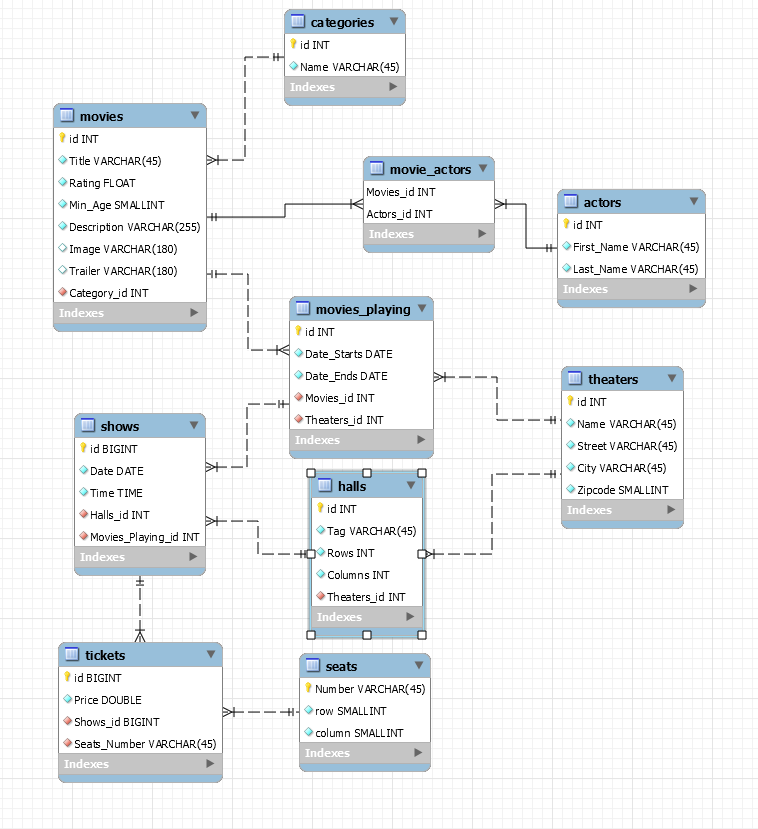
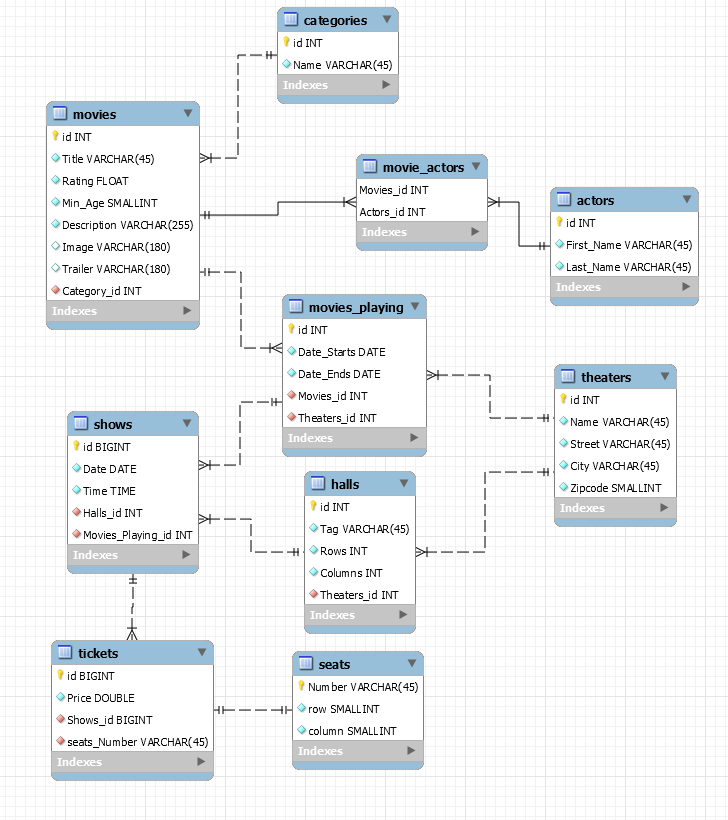
changes to enitites to support relationships

diff --git a/src/main/java/cinema/shows/entities/Show.java b/src/main/java/cinema/shows/entities/Show.java
@@ -5,6 +5,7 @@ import lombok.*;
 import javax.persistence.*;
 import java.sql.Date;
 import java.sql.Time;
+import java.util.List;
 import java.util.Objects;
 
 @AllArgsConstructor @NoArgsConstructor
@@ -27,25 +28,29 @@ public class Show {
     @JoinColumn(name = "Movies_Playing_id", referencedColumnName = "id", nullable = false)
     private MoviePlaying moviePlaying;
 
-    @Column(name = "Halls_id", nullable = false)
-    private int hallId;
+    @ManyToOne
+    @JoinColumn(name = "Halls_id", referencedColumnName = "id", nullable = false)
+    private Hall hall;
 
-    public Show(Date date, Time time, MoviePlaying moviePlaying, int hallId) {
+    @OneToMany(mappedBy = "show")
+    private List<Ticket> tickets;
+
+    public Show(Date date, Time time, MoviePlaying moviePlaying, Hall hallId) {
         this.date = date;
         this.time = time;
         this.moviePlaying = moviePlaying;
-        this.hallId = hallId;
+        this.hall = hallId;
     }
 
     @Override
     public boolean equals(Object o) {
         if (this == o) return true;
         if (!(o instanceof Show show)) return false;
-        return getHallId() == show.getHallId() && Objects.equals(getDate(), show.getDate()) && Objects.equals(getTime(), show.getTime());
+        return getHall() == show.getHall() && Objects.equals(getDate(), show.getDate()) && Objects.equals(getTime(), show.getTime());
     }
 
     @Override
     public int hashCode() {
-        return Objects.hash(getDate(), getTime(), getHallId());
+        return Objects.hash(getDate(), getTime(), getHall());
     }
 }

diff --git a/src/main/java/cinema/shows/entities/Ticket.java b/src/main/java/cinema/shows/entities/Ticket.java
@@ -1,0 +1,33 @@
+package cinema.shows.entities;
+
+import lombok.AllArgsConstructor;
+import lombok.Getter;
+import lombok.NoArgsConstructor;
+import lombok.Setter;
+
+import javax.persistence.*;
+
+@AllArgsConstructor
+@NoArgsConstructor
+@Getter
+@Setter
+@Entity
+@Table(name = "tickets")
+public class Ticket {
+    @Id
+    @GeneratedValue(strategy = GenerationType.IDENTITY)
+    @Column(name = "id", nullable = false)
+    private long id;
+
+    @Column(name = "Price", nullable = false)
+    private double price;
+
+    @OneToOne
+    @JoinColumn(name = "seats_Number", referencedColumnName = "Number", nullable = false)
+    private Seat seat;
+
+    @ManyToOne
+    @JoinColumn(name = "Shows_id", referencedColumnName = "id", nullable = false)
+    private Show show;
+
+}

diff --git a/src/main/java/cinema/shows/configurations/DataLoader.java b/src/main/java/cinema/shows/configurations/DataLoader.java
@@ -50,6 +50,7 @@ public class DataLoader {
     Movie movieTwo;
     Movie movieThree;
     Theater theater;
+    Hall hall;
 
     private void loadMoviesAndActors() {
         Actor one = new Actor(1, "Al", "Pacino");
@@ -101,12 +102,11 @@ public class DataLoader {
     }
 
     private void loadHall() {
-        Hall hall = new Hall(1,"Room One",1);
-        hallRepo.save(hall);
+        hall = hallRepo.save(new Hall(1,"Room One",5,5,1));
     }
 
     private void loadShows() {
-        Show showOneGodfather = new Show(Date.valueOf("2021-10-16"),Time.valueOf("15:00:00"),moviePlayingOne,1);
+        Show showOneGodfather = new Show(Date.valueOf("2021-10-16"),Time.valueOf("15:00:00"),moviePlayingOne,hall);
         showRepo.save(showOneGodfather);
     }
 }

diff --git a/src/main/java/cinema/shows/entities/Hall.java b/src/main/java/cinema/shows/entities/Hall.java
@@ -3,6 +3,7 @@ package cinema.shows.entities;
 import lombok.*;
 
 import javax.persistence.*;
+import java.util.List;
 
 @AllArgsConstructor @NoArgsConstructor
 @Getter @Setter
@@ -24,5 +25,16 @@ public class Hall {
     private int columns;
 
     @Column(name = "Theaters_id", nullable = false)
-    private int theaterId;
+    private int theater_id;
+
+    @OneToMany(mappedBy = "hallId")
+    private List<Show> shows;
+
+    public Hall(int id, String tag, int rows, int columns, int theater_id) {
+        this.id = id;
+        this.tag = tag;
+        this.rows = rows;
+        this.columns = columns;
+        this.theater_id = theater_id;
+    }
 }

diff --git a/src/main/java/cinema/shows/entities/Seat.java b/src/main/java/cinema/shows/entities/Seat.java
@@ -25,4 +25,7 @@ public class Seat {
     @Column(name = "column", nullable = false)
     private short columns;
 
+    @OneToOne
+    (mappedBy="seat", cascade = CascadeType.ALL)
+    private Ticket ticket;
 }
